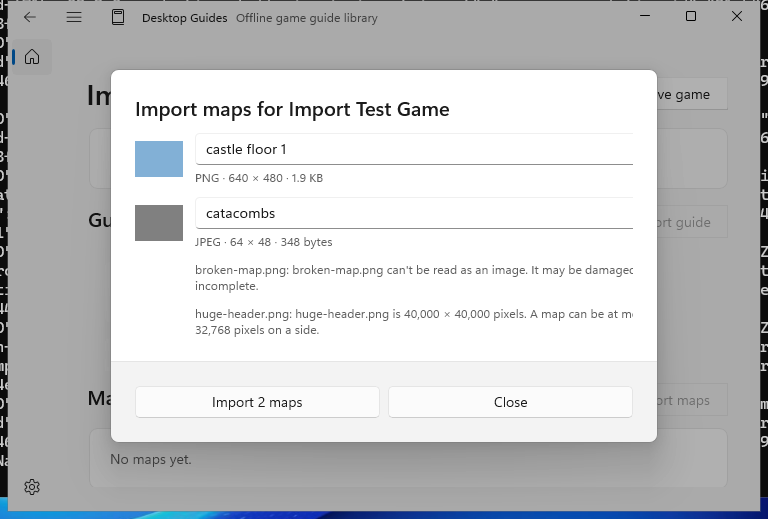
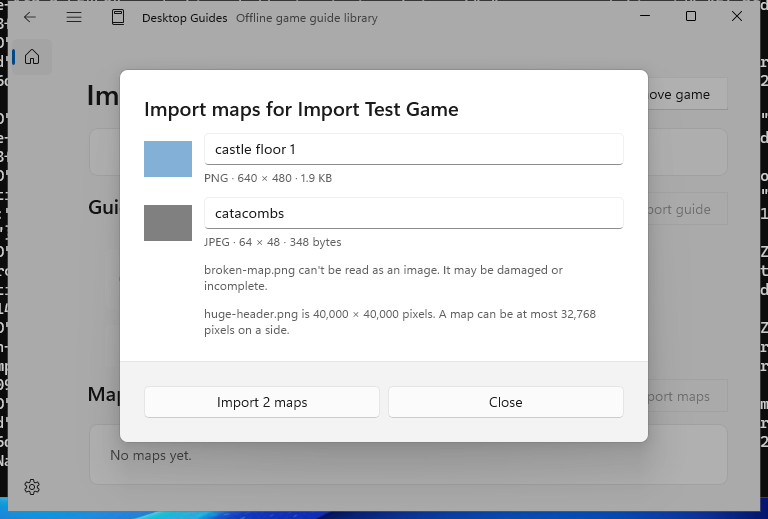
docs(p2): record image maps PR a
- The design's status and PR a verification record
- The #135 row in the P2 results
- Status pages: multi-page HTML complete, image maps PR a in review
- The final import-maps screenshots

diff --git a/docs/progress.md b/docs/progress.md
@@ -55,7 +55,7 @@ the [work breakdown](work-breakdown.md).
 | P1 T17.2 release CI, piece D | Merged through [PR #104](https://github.com/ilya-slalom/desktop-guides/pull/104) on 14 October 2026, merge commit `928407c`. T17.2 is complete. | CI runs the whole installed provider journey (settings, search and add, artwork, refresh, leak scans, removal) on both lanes against recorded fixtures. A Preview build answers provider requests from them with no network; the Public build doesn't contain the path. A host run with real keys stays the check for real-API drift. CI run [38419706291](https://github.com/ilya-slalom/desktop-guides/actions/runs/38419706291) passed. See the [verification record](p1/t17-2-fake-provider-design.md#t172-piece-d-verification-record). |
 | P1 T17.1 release identity and signing | Merged in [#82](https://github.com/ilya-slalom/desktop-guides/pull/82) and [#83](https://github.com/ilya-slalom/desktop-guides/pull/83), merge commit `1640576`. | The app has the public identity `IlyaLissoboi.DesktopGuides`, self-signed tag-driven draft releases, and an upgrade gate. The first release, v1.0.0, was drafted by release run [38127264654](https://github.com/ilya-slalom/desktop-guides/actions/runs/38127264654). PR b added the pinned release certificate (thumbprint `BAA638E4DCFA4E1C5A2F65E3DC838BA7B3B59EB6`), a `vX.Y.Z` tag workflow that produces a signed, timestamped MSIX, the portable zip, checksums and a manifest as a draft pre-release, and a `public-upgrade` CI gate (run [38112108659](https://github.com/ilya-slalom/desktop-guides/actions/runs/38112108659)). A dry run (run [38120091727](https://github.com/ilya-slalom/desktop-guides/actions/runs/38120091727)) passed; the tag release then ran. See the [verification record](p1/t17-1-release-identity-design.md#t171-verification-record). |
 | P1 first usable release | 54 of 54 tasks merged. M0 to M4 are complete. M5 has T20.1, T20.2, T15.4, T15.1 and T16.1 merged; M6 has T17.2 (release CI) merged, T17.4 (size pass) merged in #106, #107 and #108, and T17.3 (release-candidate runs) complete: v1.0.1 passed on Windows 11 x64 (#110). | [P1 technical design](p1-technical-design.md) and [dependency plan](p1/implementation-plan.md) cover 16 stories and 54 tasks: S03–S17 plus S20. P1 is complete; publishing the v1.0.1 draft is the user's step. There is no clean-install claim: the runtime-free VM check is T17.8 in the final milestone. See the [tested matrix](p1/release/tested-matrix.md). T17.2 release CI is complete (#90, #91, #95, #100, #104); T17.4 distribution size pass is complete (#106, #107, #108). The accessibility audit (T16.2, T16.3) and the Microsoft Store submission (T17.5) moved to the [final milestone](work-breakdown.md#final-milestone--accessibility-audit-and-store-submission) after P3. Toolkit `SettingsCard`, `MetadataControl`, `HeaderedContentControl` and `Segmented` are adopted and centrally pinned; `GridSplitter` and `RichSuggestBox` map to P2 tasks T18.2 and T22.2. The [installed E2E procedure](p1/e2e-testing.md) uses an interactive scheduled task for the signed MSIX and UI workflows. S20 manual export/restore is in P1 because an uninstall removes package local data. |
-| P2 reader depth and local ownership | M7 complete (T18.1: #113, #116 and #117). M8 complete (T18.2: #118 and #119). M9 complete (T19.1: #126 and #129). M10 complete (T19.2: #130 and #131). T21.1 complete (#132): T21.2 is limited to multi-page HTML and image maps. T21.2 PR a and PR b merged (#133 and #134); PR c (contents, search and bookmarks across pages) in review: multi-page HTML is supported. | [P2 technical design](p2-technical-design.md) and [implementation plan](p2/implementation-plan.md) cover S18 (search and contents, including PDF), S19 (bookmarks and TXT reflow) and S21 (a format survey first, then one design per format): 6 tasks in M7–M10 plus S21. Next: T21.2 image maps design. |
+| P2 reader depth and local ownership | M7 complete (T18.1: #113, #116 and #117). M8 complete (T18.2: #118 and #119). M9 complete (T19.1: #126 and #129). M10 complete (T19.2: #130 and #131). T21.1 complete (#132): T21.2 is limited to multi-page HTML and image maps. T21.2 multi-page HTML complete (#133, #134 and #135): multi-page HTML is supported. T21.2 image maps designed ([design](p2/t21-2-image-maps-design.md), 19 October 2026); PR a (import maps and the Maps section) in review. | [P2 technical design](p2-technical-design.md) and [implementation plan](p2/implementation-plan.md) cover S18 (search and contents, including PDF), S19 (bookmarks and TXT reflow) and S21 (a format survey first, then one design per format): 6 tasks in M7–M10 plus S21. Next: T21.2 image maps PR b (the reader). |
 
 M1 is complete; its last task, T17.1, is in the [P1 plan](p1/implementation-plan.md).
 [PR #8](https://github.com/ilya-slalom/desktop-guides/pull/8) merged its

diff --git a/docs/p2/t21-2-image-maps-design.md b/docs/p2/t21-2-image-maps-design.md
@@ -1,6 +1,7 @@
 # T21.2 image maps: design
 
-Status: approved in conversation, 19 October 2026.
+Status: approved in conversation, 19 October 2026. PR a (import maps and
+the Maps section) in review; see the [PR a verification record](#pr-a-verification-record).
 
 ## Intent
 
@@ -327,3 +328,57 @@ Image maps are listed as supported only after PR c.
    tiles) lives outside the library.
    The originals stay untouched.
 4. **Several files import at once,** but only through Import maps.
+
+## PR a verification record
+
+See the [PR a plan](t21-2-image-maps-import-plan.md).
+
+- **Core,** each test failing first and then passing on the host:
+  - `MapImageHeaderTests`: PNG and JPEG sizes from the header (a 64 KiB
+    EXIF segment, a progressive JPEG, fill bytes, a stream that can't
+    seek), and completeness: a PNG must reach IEND, a JPEG its end after
+    its first scan, found by segment lengths so an EXIF thumbnail's own
+    scan and end don't count;
+  - `MapImageLimits`, `MapPresentationTests` (stored name, label, size
+    fact, sort by title then id) and `MapBatchTests` (the button label,
+    the summary, and Import waiting for every file's check);
+  - map titles from file names, keeping a dot that isn't the extension;
+    "N guides, M maps"; the map icon; `GamePageLayout` leaving a row of
+    each list and the Maps header.
+
+  The full suite passes, 1444/1444.
+- **Infrastructure:**
+  - schema 8: a populated schema 7 library keeps every row through the
+    `Guides` rebuild, a failed migration stays at schema 7, deletes still
+    cascade, and the pixel columns are required for maps only;
+  - `MapImportTests`: each limit's refusal, a decompression bomb refused
+    from its header before any decode, a truncated map that still decodes,
+    a mismatched extension, upper-case extensions, duplicates by bytes and
+    not by title, and publishing `content/<id>/map.png`;
+  - a map backed up and restored, and a schema 7 backup restored.
+
+  The full suite passes, 901/901.
+- **Production:** it builds with 0 warnings, with warnings as errors.
+- **Installed:** the `import` group passes on both lanes (runs
+  39182497573, MSIX, and 39182499716, portable). `import-maps` picks four
+  files at once; two import, and a damaged file and a 40,000 × 40,000
+  header are refused with their reasons. A strip map imports by Ctrl+O,
+  the Maps section lists all three by title with no reading state, and a
+  map opens fitted. The library then holds 3 maps (640 × 480, 64 × 48 and
+  20000 × 400) with no reading state, and Resume isn't a map.
+
+  Screenshots: [import-maps](evidence/ci/t21-2/import-maps.png),
+  [import-maps-section](evidence/ci/t21-2/import-maps-section.png) and
+  [import-maps-open](evidence/ci/t21-2/import-maps-open.png).
+- **Found by the installed runs:**
+  - **A truncated PNG decoded** with its missing rows filled in, so it
+    showed as ready. Completeness is now checked apart from decoding.
+  - **Import maps stayed disabled** after a Ctrl+O import, and **the Maps
+    list ran off a short window**. Both are fixed, and the smoke checks
+    the button.
+- **Found by the final review:** Import could start before every file was
+  checked, a dotted file name lost its tail in the title, and a JPEG cut
+  after its EXIF thumbnail counted as whole. Each is fixed with a test
+  that failed first.
+- **Deferred:** map removal and in-batch duplicate copy still say
+  "guide"; focus after cancelling Remove map. Both are polish for PR c.

diff --git a/docs/p2/results.md b/docs/p2/results.md
@@ -4,6 +4,7 @@ Merged P2 work, in the [P1 results](../p1/results.md) format.
 
 | PR | Merged | Commit | Task | Final CI run | Core | Infra | Record | Caveats |
 | --- | --- | --- | --- | --- | --- | --- | --- | --- |
+| [#135](https://github.com/ilya-slalom/desktop-guides/pull/135) | 2026-10-18 | `c0addf1` | T21.2 (PR c) | [39133678906](https://github.com/ilya-slalom/desktop-guides/actions/runs/39133678906) | 1396 | 876 | [t21-2-multipage-html-design](t21-2-multipage-html-design.md#pr-c-verification-record) | Contents, search and bookmarks across pages; multi-page HTML supported. Passed on the first attempt. |
 | [#134](https://github.com/ilya-slalom/desktop-guides/pull/134) | 2026-10-18 | `07af06e` | T21.2 (PR b) | [39119742284](https://github.com/ilya-slalom/desktop-guides/actions/runs/39119742284) | 1373 | 872 | [t21-2-multipage-html-design](t21-2-multipage-html-design.md#pr-b-verification-record) | Reading a multi-page guide. Passed on the first attempt. |
 | [#133](https://github.com/ilya-slalom/desktop-guides/pull/133) | 2026-10-18 | `59810e0` | T21.2 (PR a) | [39092396556](https://github.com/ilya-slalom/desktop-guides/actions/runs/39092396556) | 1344 | 869 | [t21-2-multipage-html-design](t21-2-multipage-html-design.md#pr-a-verification-record) | Multi-page HTML import, storage and backup. Passed on the first attempt. |
 | [#132](https://github.com/ilya-slalom/desktop-guides/pull/132) | 2026-10-17 | `e3c9a71` | T21.1 | — (docs only) | — | — | [format-survey](format-survey.md) | The format survey; T21.2 limited to multi-page HTML and image maps. |

diff --git a/docs/p2/implementation-plan.md b/docs/p2/implementation-plan.md
@@ -1,6 +1,6 @@
 # P2 implementation plan and exit gates
 
-Status: M7 complete, 15 October 2026 (T18.1: #113, #116 and #117). M8 complete, 16 October 2026 (T18.2: #118 and #119). M9 complete, 16 October 2026 (T19.1: #126 and #129). M10 complete, 17 October 2026 (T19.2: #130 and #131). T21.1 complete, 17 October 2026 (#132): T21.2 is limited to multi-page HTML and image maps. T21.2 PR a and PR b merged (#133 and #134); PR c (contents, search and bookmarks across pages) in review: multi-page HTML is supported. P1 is complete (54 of 54 tasks; v1.0.1
+Status: M7 complete, 15 October 2026 (T18.1: #113, #116 and #117). M8 complete, 16 October 2026 (T18.2: #118 and #119). M9 complete, 16 October 2026 (T19.1: #126 and #129). M10 complete, 17 October 2026 (T19.2: #130 and #131). T21.1 complete, 17 October 2026 (#132): T21.2 is limited to multi-page HTML and image maps. T21.2 multi-page HTML complete (#133, #134 and #135): multi-page HTML is supported. T21.2 image maps designed ([design](t21-2-image-maps-design.md), 19 October 2026); PR a (import maps and the Maps section) in review. P1 is complete (54 of 54 tasks; v1.0.1
 published). This plan orders the **3 P2 stories and 6 tasks** in the
 [work breakdown](../work-breakdown.md#p2--reader-depth-and-local-ownership).
 
